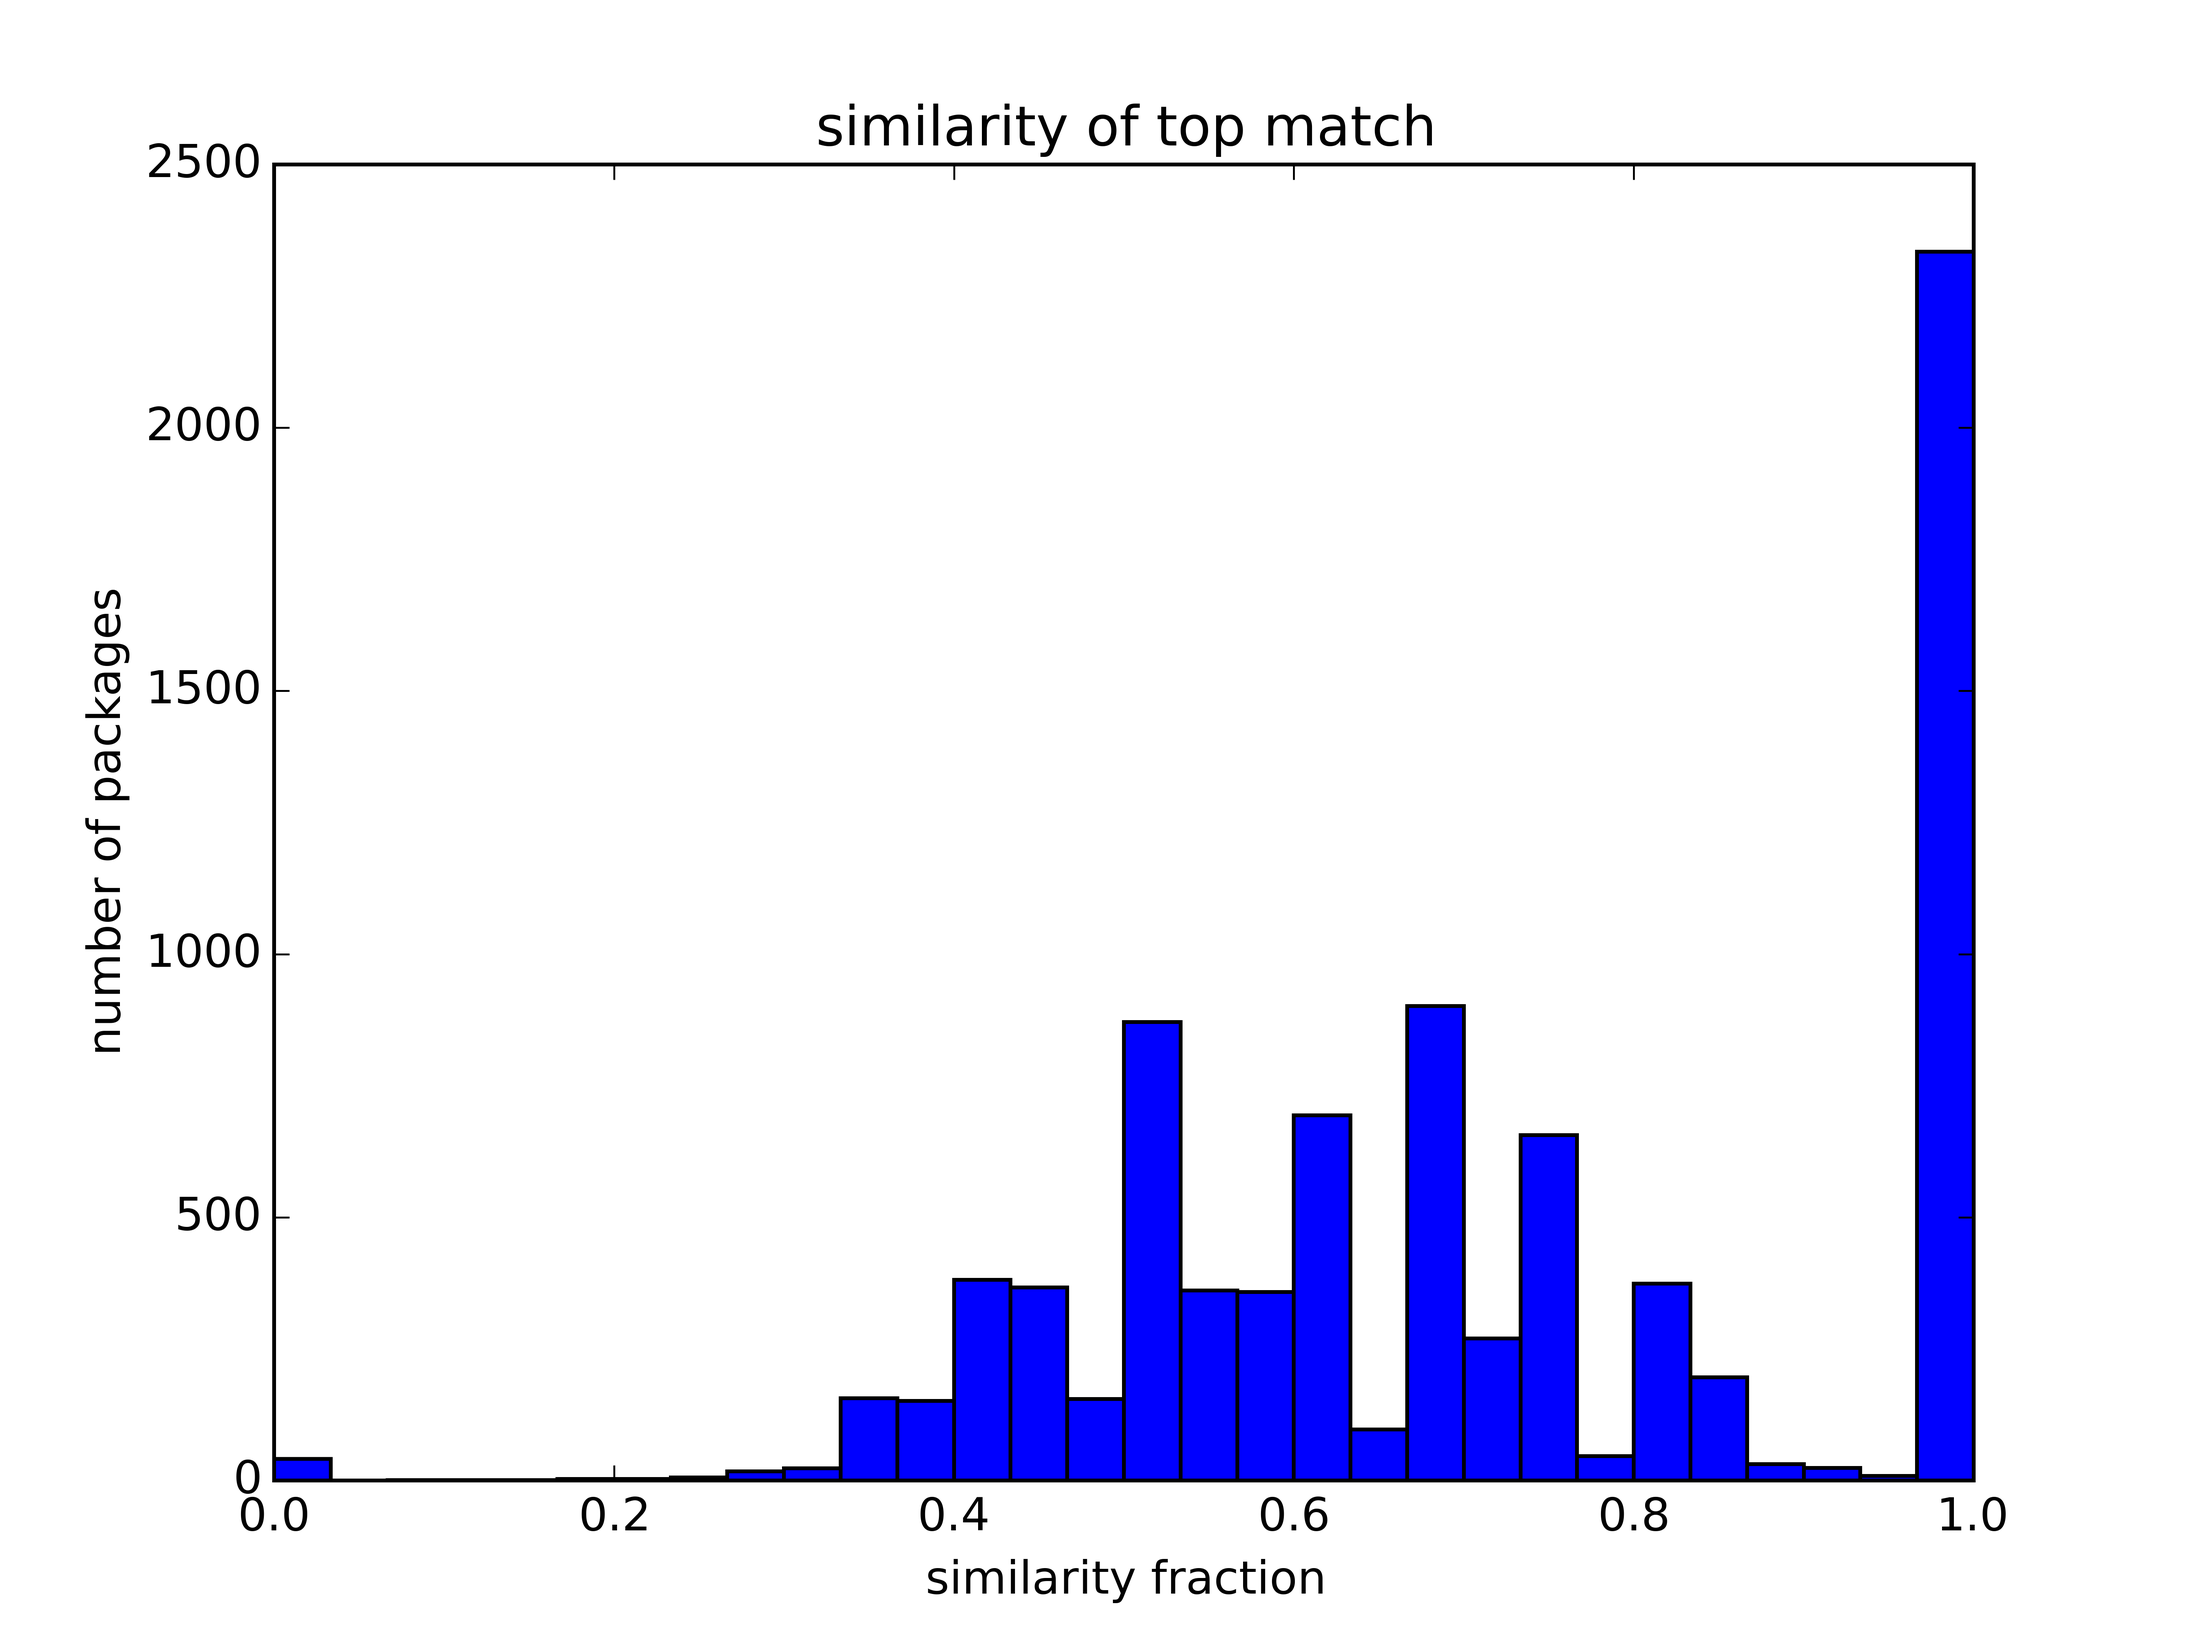
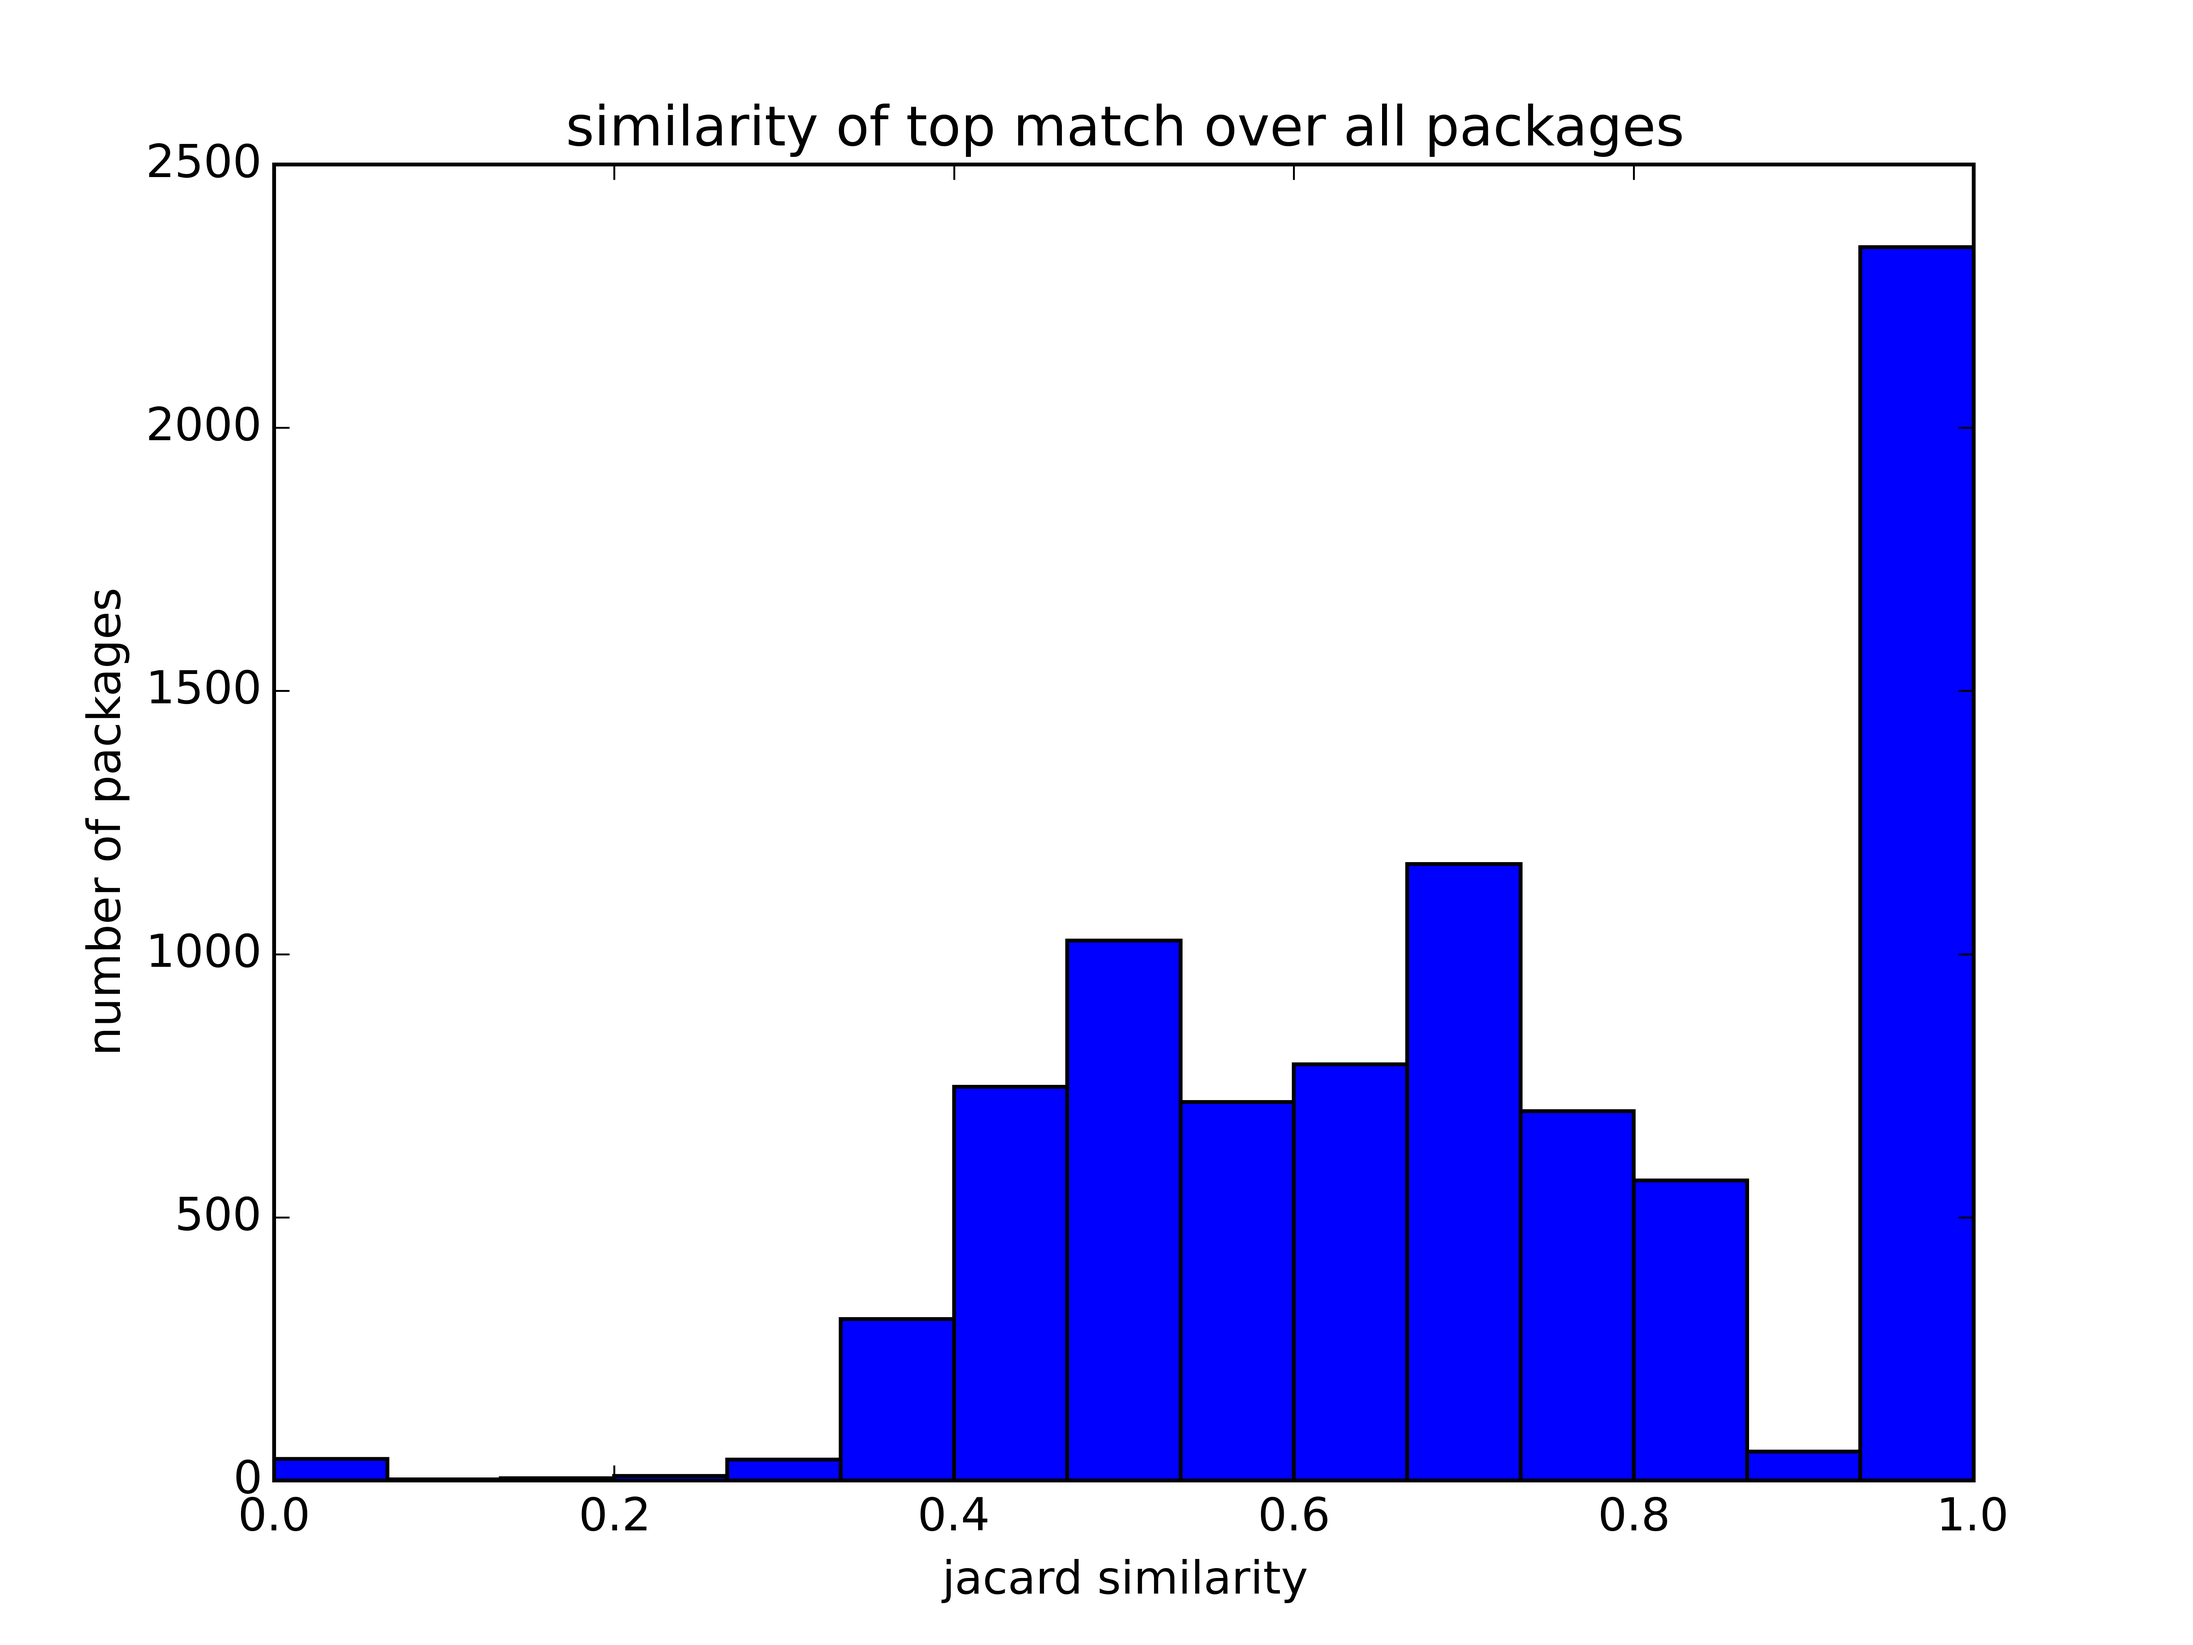
updated jacard1_hist

diff --git a/src/gen_plots/jacard1_hist.py b/src/gen_plots/jacard1_hist.py
@@ -16,12 +16,12 @@ def dependency_hist(save=True, show=False, verbose=False, bins=0):
   jacList = get_2highest_jacard()
   if bins==0:
     unique = list(set(jacList))
-    bins = int(len(unique) ** 0.5) * 2
+    bins = int(len(unique) ** 0.5)# * 2
   if verbose:
     print('max best similarity is: ' + str(max(jacList)))
     print('min best similarity is: ' + str(min(jacList)))
-  plt.title('similarity of top match')
-  plt.xlabel('similarity fraction')
+  plt.title('similarity of top match over all packages')
+  plt.xlabel('jacard similarity')
   plt.ylabel('number of packages')
   plt.hist(jacList, bins=bins)
   if save: plt.savefig(outputDir + '/' + 'jacard1_hist.png', dpi=720)
